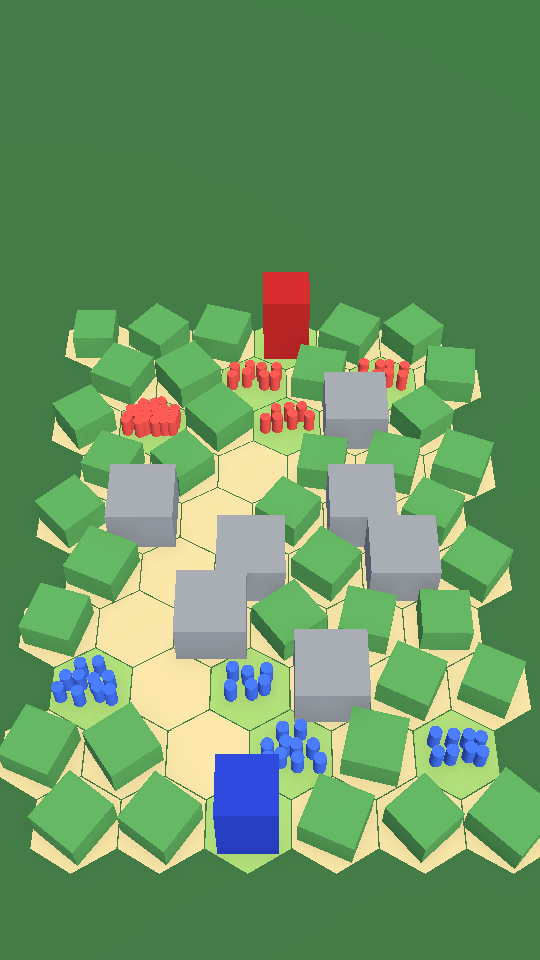
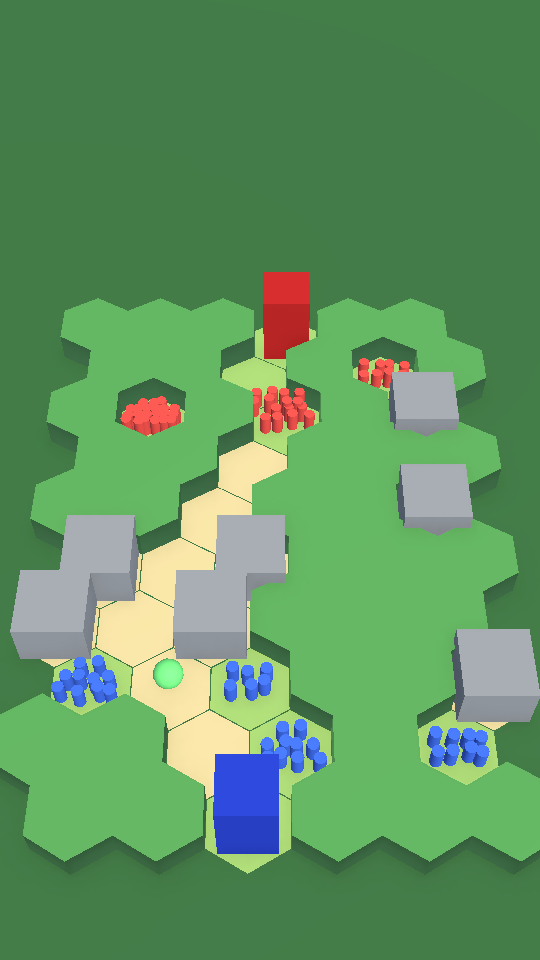
Bush Rush: трава сплошная — шестигранные призмы по гексу смыкаются в ковёр толщиной 0.45, расчищенное вырезано

Changed region(s): [[0.0, 0.3125, 1.0, 0.9062], [0.0, 0.6875, 0.3852, 0.9062], [0.4444, 0.5, 0.5037, 0.5312]]

diff --git a/unity/Assets/Warbands/Scripts/Runtime/Field3D.cs b/unity/Assets/Warbands/Scripts/Runtime/Field3D.cs
@@ -49,7 +49,8 @@ namespace Warbands
         readonly Transform[] bushes = new Transform[BushGrid.Cols * BushGrid.Rows], obstacles = new Transform[BushGrid.Cols * BushGrid.Rows], bonuses = new Transform[BushGrid.Cols * BushGrid.Rows];
         readonly float[] bushScale = new float[BushGrid.Cols * BushGrid.Rows], bushTarget = new float[BushGrid.Cols * BushGrid.Rows];
         readonly bool[] pendingRegrow = new bool[BushGrid.Cols * BushGrid.Rows], reachMask = new bool[BushGrid.Cols * BushGrid.Rows];
-        Mesh hexMesh, boxMesh, sphereMesh, pawnMesh;   // меши свои (процедурные): встроенные примитивы в WebGL-билд не попадают
+        Mesh hexMesh, grassMesh, boxMesh, sphereMesh, pawnMesh;   // меши свои (процедурные): встроенные примитивы в WebGL-билд не попадают
+        public const float GrassH = 0.45f;   // толщина травы
         MaterialPropertyBlock mpb;
 
         public sealed class UnitView
@@ -71,7 +72,7 @@ namespace Warbands
             root = new GameObject("Field").transform; root.SetParent(transform, false);
             Debug.Log($"[SW] field: gfx={SystemInfo.graphicsDeviceType} mats={(assets != null && assets.ground != null && assets.ground.shader != null ? assets.ground.shader.name : "NONE")}");
             mpb = new MaterialPropertyBlock();
-            hexMesh = BuildHexMesh(); boxMesh = GreyMeshes.Box(); sphereMesh = GreyMeshes.Sphere(14, 10); pawnMesh = GreyMeshes.Cylinder(10);
+            hexMesh = BuildHexMesh(); grassMesh = BuildHexPrism(GrassH); boxMesh = GreyMeshes.Box(); sphereMesh = GreyMeshes.Sphere(14, 10); pawnMesh = GreyMeshes.Cylinder(10);
             // земля
             var ground = Prim("Ground", boxMesh, assets.ground, root);
             ground.localScale = new Vector3(40f, 0.2f, 40f); ground.localPosition = new Vector3(0f, -0.12f, 0f);
@@ -82,9 +83,10 @@ namespace Warbands
                 var c = new Cell(x, y); int i = BushGrid.Index(c); var p = CellPos(c);
                 var tile = new GameObject($"Tile_{x}_{y}", typeof(MeshFilter), typeof(MeshRenderer)); tile.transform.SetParent(tilesRoot, false); tile.transform.localPosition = p + Vector3.up * 0.01f;
                 tile.GetComponent<MeshFilter>().sharedMesh = hexMesh; var mr = tile.GetComponent<MeshRenderer>(); mr.sharedMaterial = assets.sand; mr.shadowCastingMode = UnityEngine.Rendering.ShadowCastingMode.Off; Tint(mr, assets.sand); tiles[i] = mr;
-                // куст: блок со случайным поворотом и лёгким разбросом размера — органичнее
-                var b = Prim("Bush", boxMesh, assets.bush, tilesRoot); float k = 0.8f + Hash(x, y) * 0.15f;
-                b.localPosition = p + Vector3.up * 0.22f; b.localRotation = Quaternion.Euler(0f, Hash(y, x) * 60f, 0f); b.localScale = new Vector3(0.78f * k, 0.44f, 0.78f * k);
+                // трава сплошная (автор 14.09): шестигранная призма ровно по гексу, соседние смыкаются в единый ковёр толщиной GrassH;
+                // расчищенный гекс — вырез в ковре с вертикальными стенками, как в референсе Castle Raid
+                var b = Prim("Grass", grassMesh, assets.bush, tilesRoot);
+                b.localPosition = p; b.localScale = Vector3.one;
                 bushes[i] = b; bushScale[i] = bushTarget[i] = 1f;
                 var o = Prim("Obstacle", boxMesh, assets.obstacle, tilesRoot); o.localPosition = p + Vector3.up * 0.35f; o.localScale = new Vector3(0.9f, 0.7f, 0.9f); o.gameObject.SetActive(false); obstacles[i] = o;
                 var bn = Prim("Bonus", sphereMesh, assets.gold, tilesRoot); bn.localPosition = p + Vector3.up * 0.4f; bn.localScale = Vector3.one * 0.38f; bn.gameObject.SetActive(false); bonuses[i] = bn;
@@ -109,6 +111,22 @@ namespace Warbands
         void Tint(MeshRenderer mr, Material mat) { if (mat == null) return; var c = mat.HasProperty("_BaseColor") ? mat.GetColor("_BaseColor") : mat.color; Tint(mr, c); }
         void Tint(MeshRenderer mr, Color c) { mr.GetPropertyBlock(mpb); mpb.SetColor("_BaseColor", c); mpb.SetColor("_Color", c); mr.SetPropertyBlock(mpb); }
 
+        /// Шестигранная призма по гексу (pointy-top, ширина 1): верх, стенки; низ не нужен. Радиус точный — соседи смыкаются.
+        static Mesh BuildHexPrism(float h)
+        {
+            float r = HexH / 2f; var v = new List<Vector3>(); var n = new List<Vector3>(); var t = new List<int>();
+            var ring = new Vector3[6]; for (int k = 0; k < 6; k++) { float a = Mathf.PI / 6f + k * Mathf.PI / 3f; ring[k] = new Vector3(Mathf.Cos(a) * r, 0f, Mathf.Sin(a) * r); }
+            int c0 = v.Count; v.Add(new Vector3(0f, h, 0f)); n.Add(Vector3.up);
+            for (int k = 0; k < 6; k++) { v.Add(ring[k] + Vector3.up * h); n.Add(Vector3.up); }
+            for (int k = 0; k < 6; k++) { t.Add(c0); t.Add(c0 + 1 + (k + 1) % 6); t.Add(c0 + 1 + k); }
+            for (int k = 0; k < 6; k++)
+            {
+                var a = ring[k]; var b = ring[(k + 1) % 6]; var nrm = Vector3.Cross(Vector3.up, b - a).normalized; nrm = -nrm;
+                int i0 = v.Count; v.Add(a); v.Add(b); v.Add(b + Vector3.up * h); v.Add(a + Vector3.up * h); for (int q = 0; q < 4; q++) n.Add(nrm);
+                t.Add(i0); t.Add(i0 + 2); t.Add(i0 + 1); t.Add(i0); t.Add(i0 + 3); t.Add(i0 + 2);
+            }
+            var m = new Mesh(); m.SetVertices(v); m.SetNormals(n); m.SetTriangles(t, 0); m.RecalculateBounds(); return m;
+        }
         static Mesh BuildHexMesh()
         {
             // pointy-top, ширина 1: радиус 1/√3, вершины сверху и снизу (по z)
@@ -162,7 +180,8 @@ namespace Warbands
             SetPending(PendingRegrow(b));
         }
 
-        Vector3 BushScaleVec(int i, float k) { float s = 0.8f + Hash(i % BushGrid.Cols, i / BushGrid.Cols) * 0.15f; return new Vector3(0.78f * s * k, 0.44f * k, 0.78f * s * k); }
+        /// Рост/срез травы — по высоте призмы (ковёр не расходится в стороны).
+        static Vector3 BushScaleVec(int i, float k) => new Vector3(1f, Mathf.Max(0.001f, k), 1f);
 
         UnitView BuildUnit(Unit u)
         {

diff --git a/GDD.md b/GDD.md
@@ -23,4 +23,4 @@
 - Лекари (Dawn Clerics, Bonecallers) временно убраны: в шаблонах заменены (Grave Cycle → Spirit Weavers, Sustained Fire → Gunners, Lasting Light → Spirit Weavers, Bone Tide → Plague Cabal). Экрана лодаута нет — PLAY берёт выбранный шаблон, кнопка DECK листает 12 шаблонов. Бот берёт шаблон с минимальным пересечением отрядов с колодой игрока.
 
 ## Вид
-- 3D-грейбокс: земля, гексы-плашки песочные (расчищено) / кусты — зелёные блоки, препятствия — серые, бонусы — шарики (золото ×2, мята +HP). Отряды — толпы капсул по числу живых бойцов, свои синие, чужие красные; герои — большие блоки. Камера от игрока вглубь поля, на широком экране — колонка 9:16 по центру. HUD: полоски HP героев сверху/снизу, таймер, подсказка, кнопка ульты, плашки HP над отрядами, всплывающие числа. Подсветка радиуса хода ходящего отряда — гексы темнее.
+- 3D-грейбокс: земля, гексы-плашки песочные (расчищено) / кусты — зелёные блоки, препятствия — серые, бонусы — шарики (золото ×2, мята +HP); трава — сплошной ковёр из шестигранных призм толщиной 0.45, расчищенное вырезано из него. Отряды — толпы капсул по числу живых бойцов, свои синие, чужие красные; герои — большие блоки. Камера от игрока вглубь поля, на широком экране — колонка 9:16 по центру. HUD: полоски HP героев сверху/снизу, таймер, подсказка, кнопка ульты, плашки HP над отрядами, всплывающие числа. Подсветка радиуса хода ходящего отряда — гексы темнее.

diff --git a/ROADMAP.md b/ROADMAP.md
@@ -17,4 +17,5 @@
 - 14.09: первая сборка: 6 тестов + смоук зелёные, матрица BALANCE §1 (18–80, лимитов 0 %), WebGL 11 МБ, выложено на Pages.
 - 14.09: первый WebGL не рисовал поле вовсе, а редактор красил всё одним цветом. Причины: встроенные меши примитивов (Cube.fbx и др.) в WebGL-билд не попали (ссылка из ScriptableObject не тянет их), а с SRP Batcher материалы, созданные forge скриптом, рисовались цветом последнего материала. Решение: меши процедурные (`GreyMeshes`: куб, UV-сфера, цилиндр), цвет каждого рендерера — через MaterialPropertyBlock (`Field3D.Tint`). Смоук-тест с `SHOT=1` (без -nographics) пишет снимок камеры в `unity/CI/smoke.png` — визуальный смоук без браузера.
 - 14.09: PLAY и кнопка ульты не нажимались: `Ui.Primary` без UI-пака переставляла кнопку в начало детей родителя — под скрим главного экрана и под ловец пальца HUD (в Warbands путь без пака не использовался). Убрано.
+- 14.09: трава сплошная (автор): вместо кубиков-кустов с зазорами — шестигранные призмы ровно по гексу (`BuildHexPrism`, толщина 0.45), соседние смыкаются в ковёр; расчищенный гекс — вырез с вертикальными стенками; рост/зарастание — по высоте.
 
